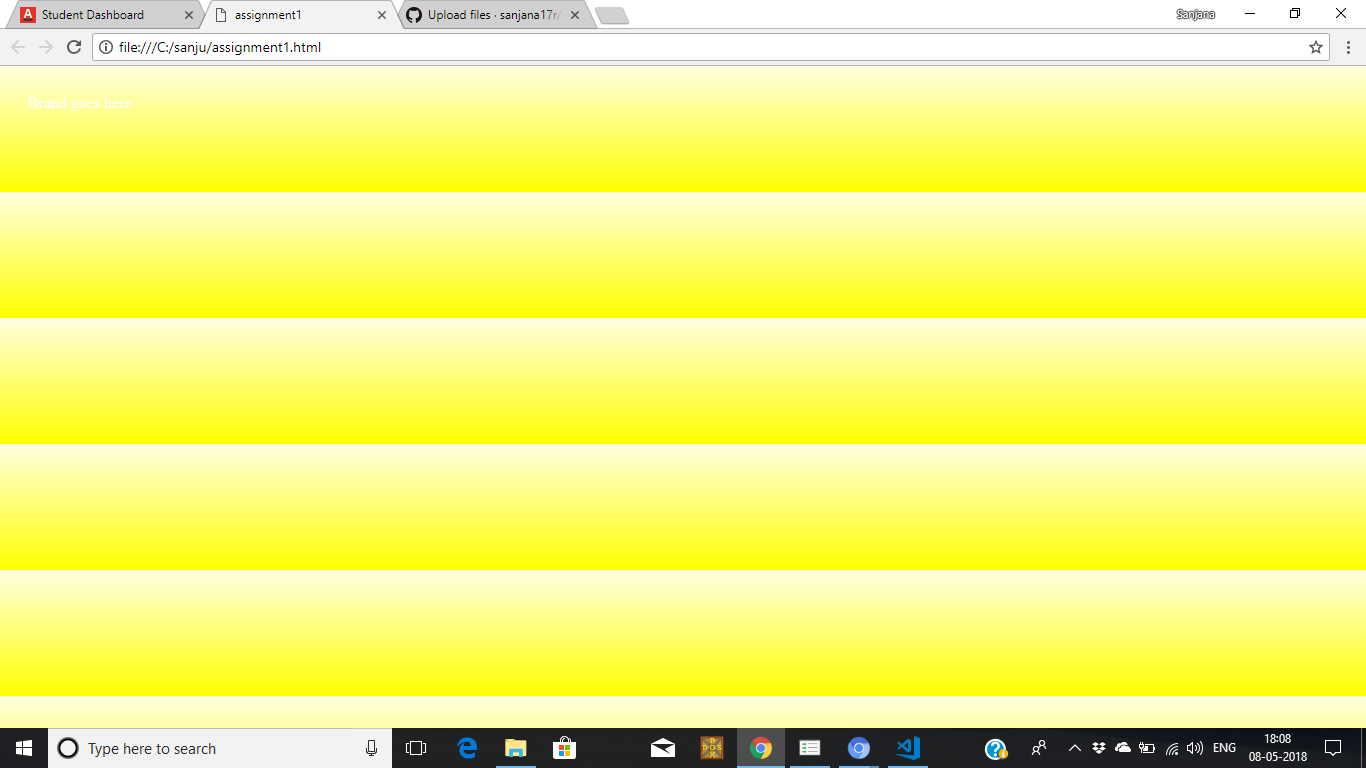
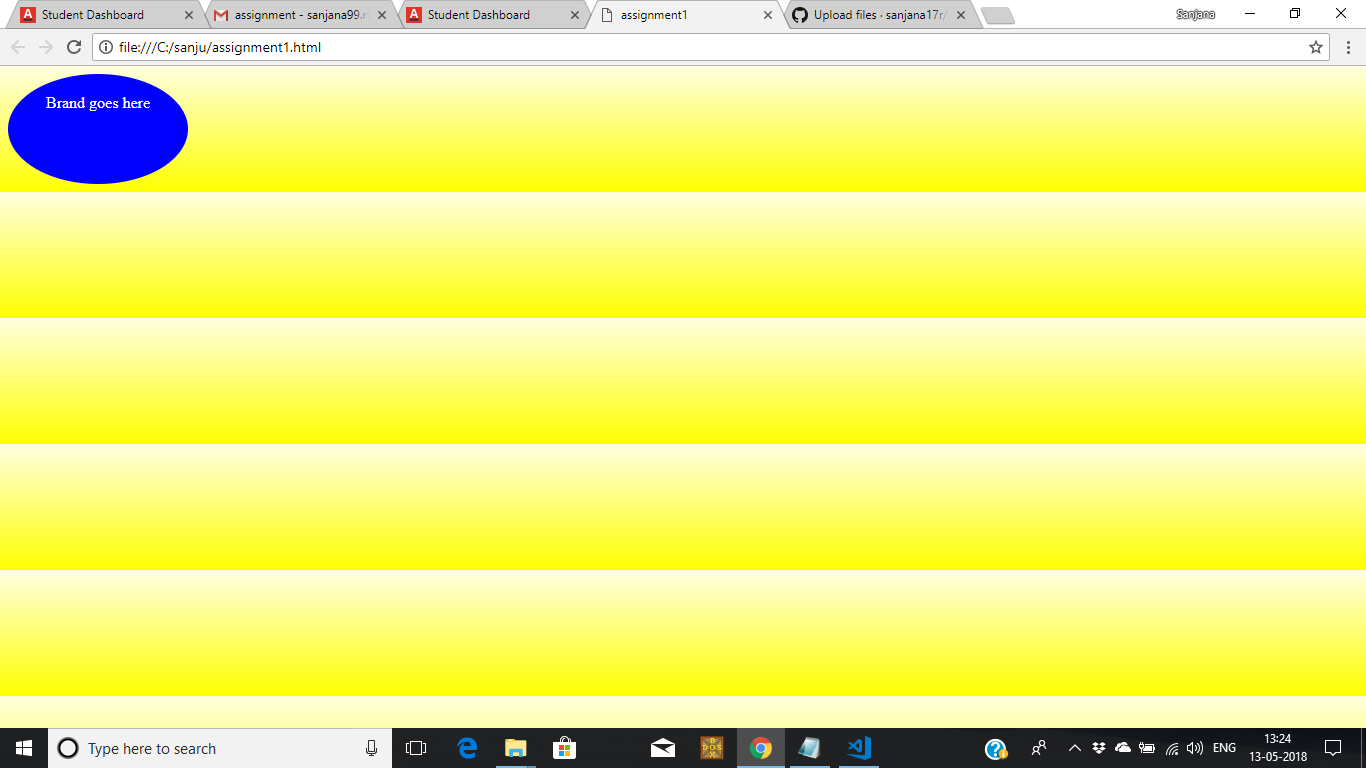
Add files via upload

diff --git a/style.css b/style.css
@@ -6,6 +6,9 @@ header{
     height: 70px;   /* setting the diamension of header to 140*70*/
     width: 140px;
     color: white;   /*color of text is white*/
-    border: 1px;   /*border all sides is 1px*/
+    border: 1px;    /*border is 1px*/
+    border-radius: 100%;  /*for circular boder as shown in output*/
+    background: blue;
     padding: 20px;  /*internal spacing is 20px*/
+    text-align: center; /*text is centre aligned*/
 }
